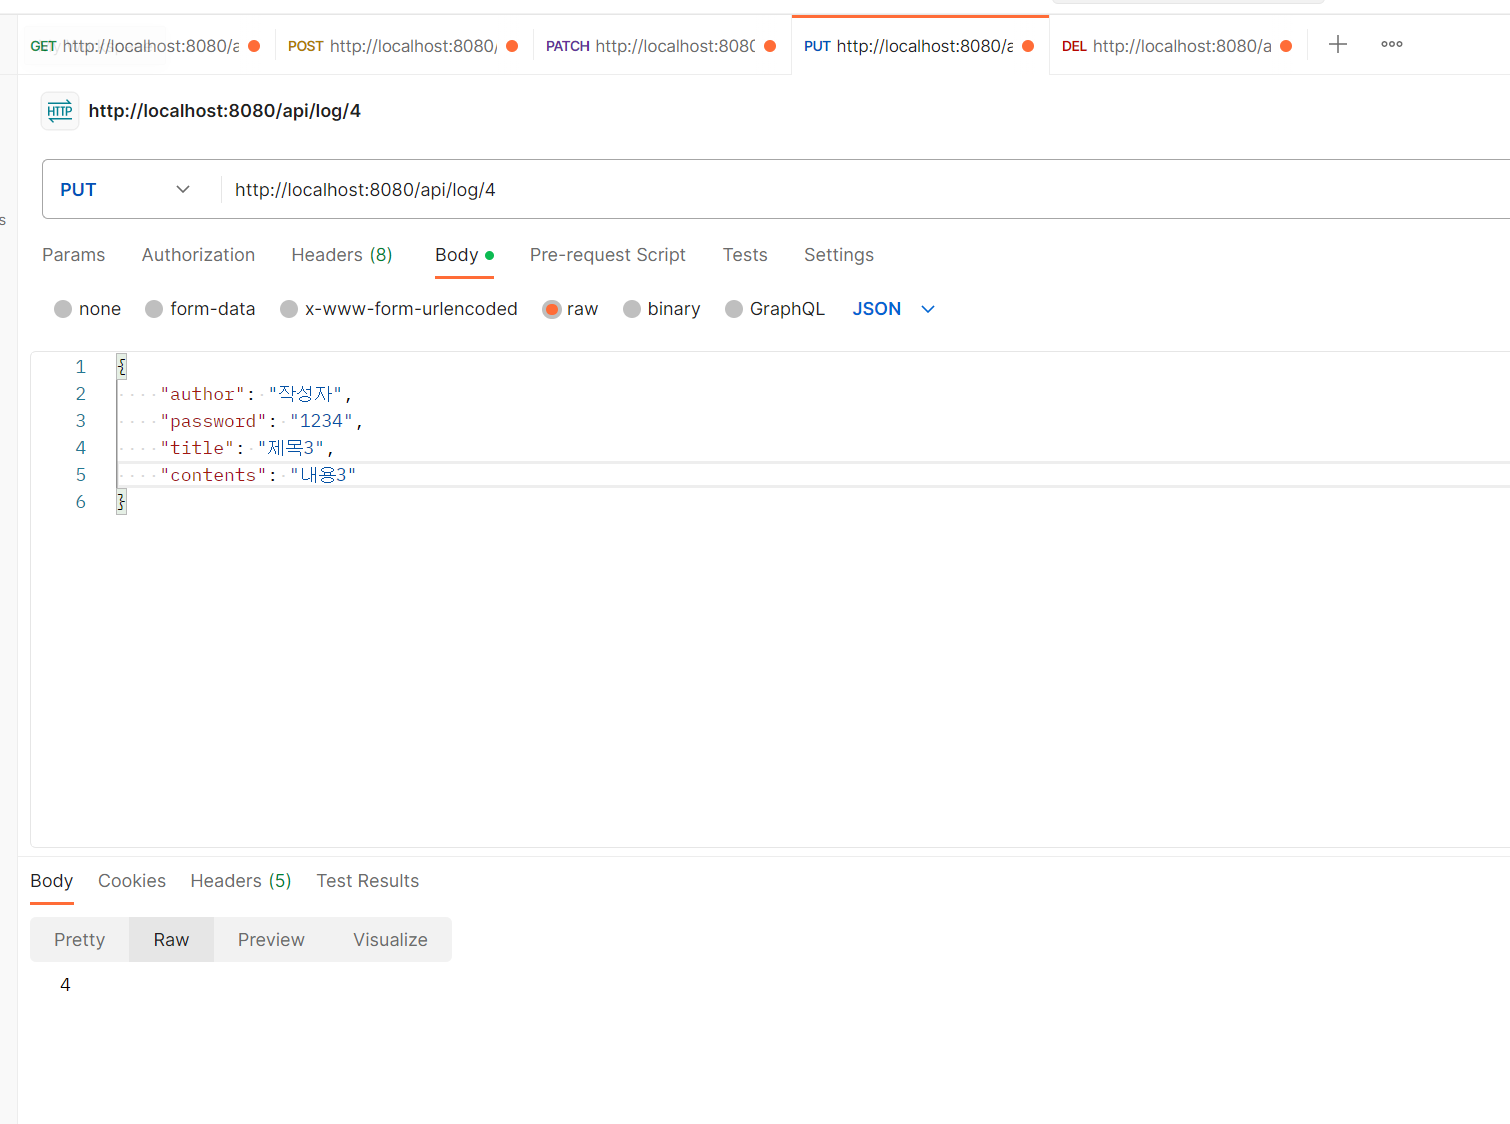
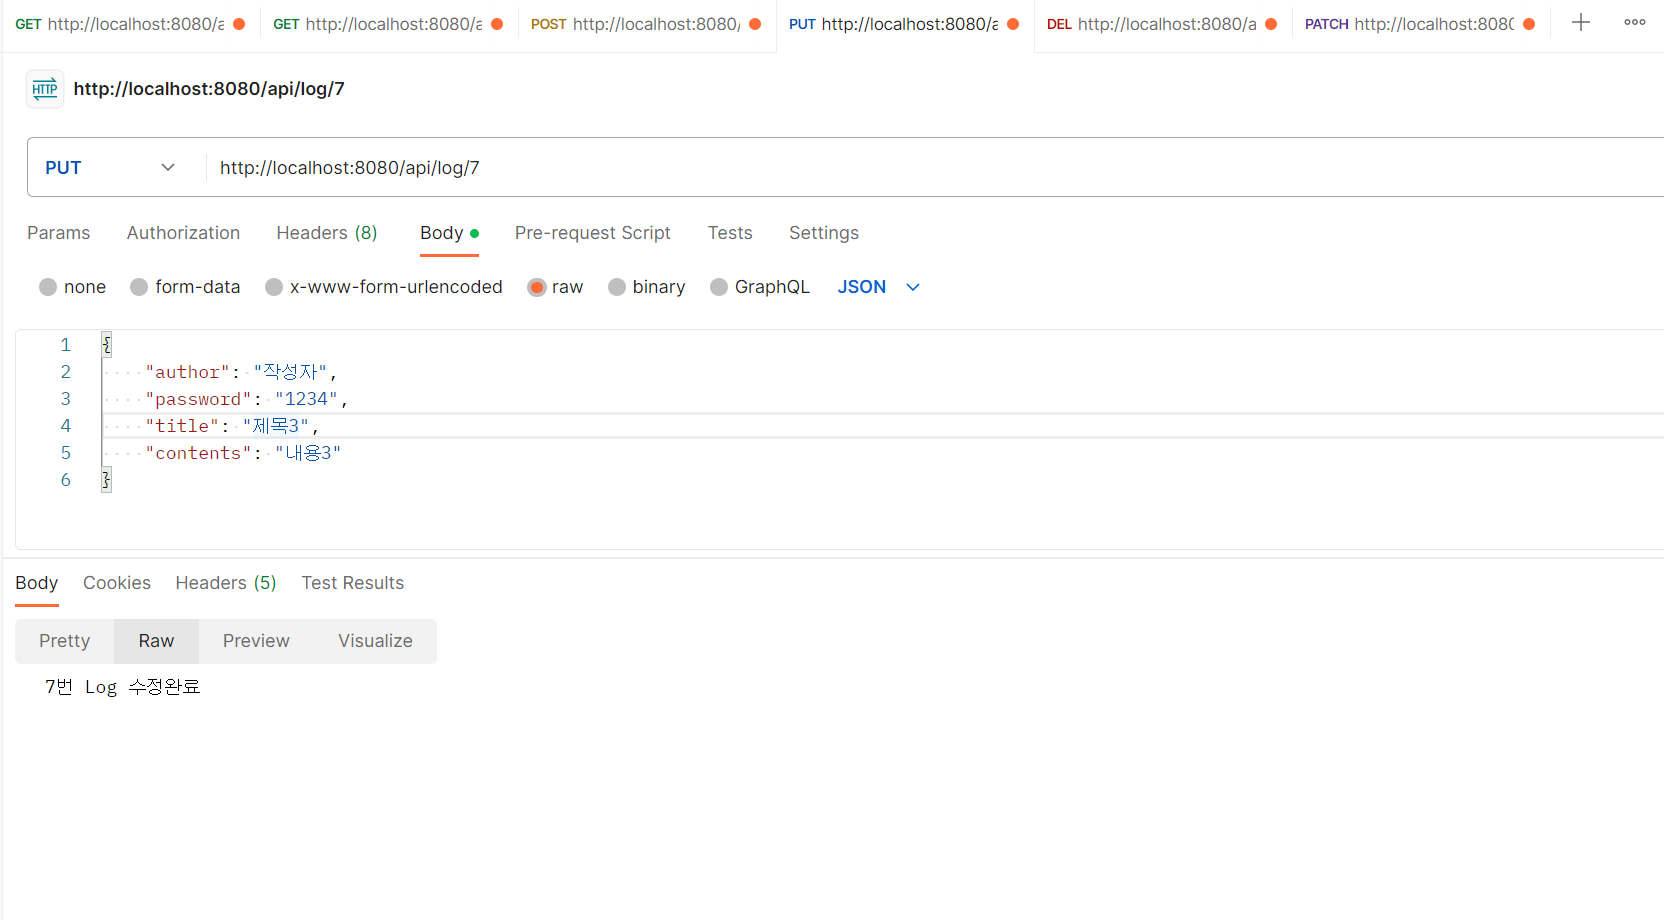
조회화면 비밀번호삭제

diff --git a/src/main/java/com/sparta/blog/dto/BlogResponseDto.java b/src/main/java/com/sparta/blog/dto/BlogResponseDto.java
@@ -9,7 +9,7 @@ import java.time.LocalDateTime;
 public class BlogResponseDto {
     private Long id;
     private String author;
-    private String password;
+//    private String password;
     private String title;
     private String contents;
     private LocalDateTime createAt;
@@ -19,7 +19,7 @@ public class BlogResponseDto {
     public BlogResponseDto(Blog blog) {
         this.id = blog.getId();
         this.author = blog.getAuthor();
-        this.password = blog.getPassword();
+//        this.password = blog.getPassword();
         this.title = blog.getTitle();
         this.contents = blog.getContents();
         this.createAt = blog.getCreatedAt();
